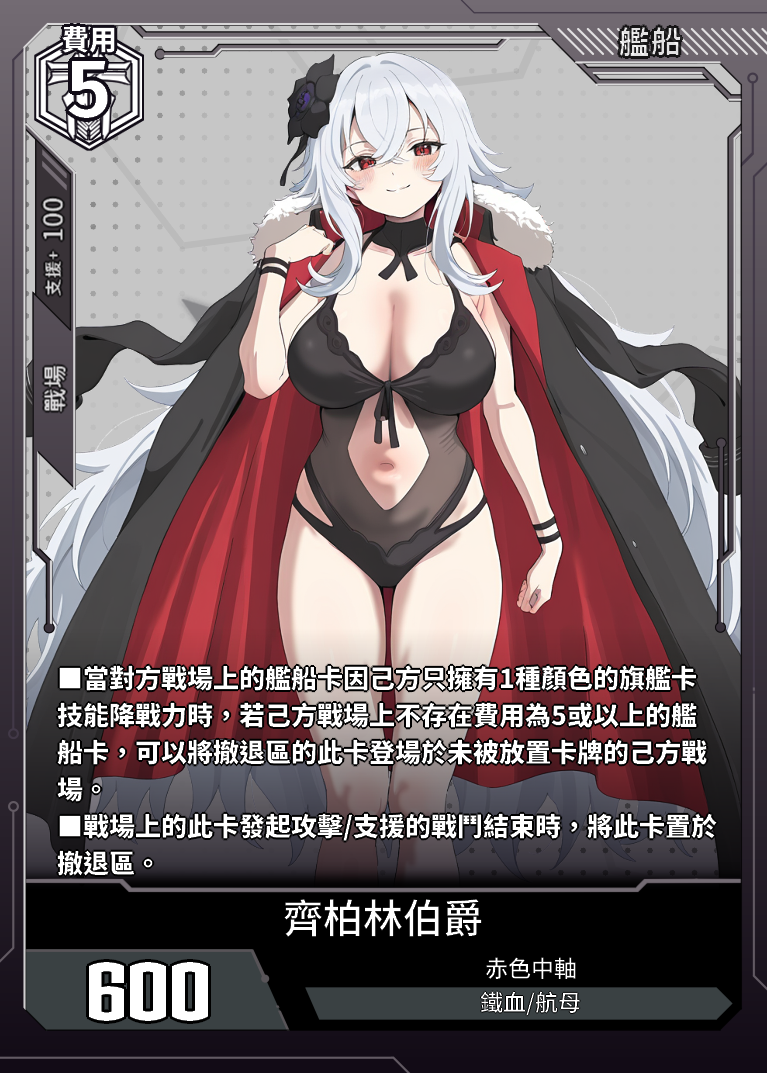
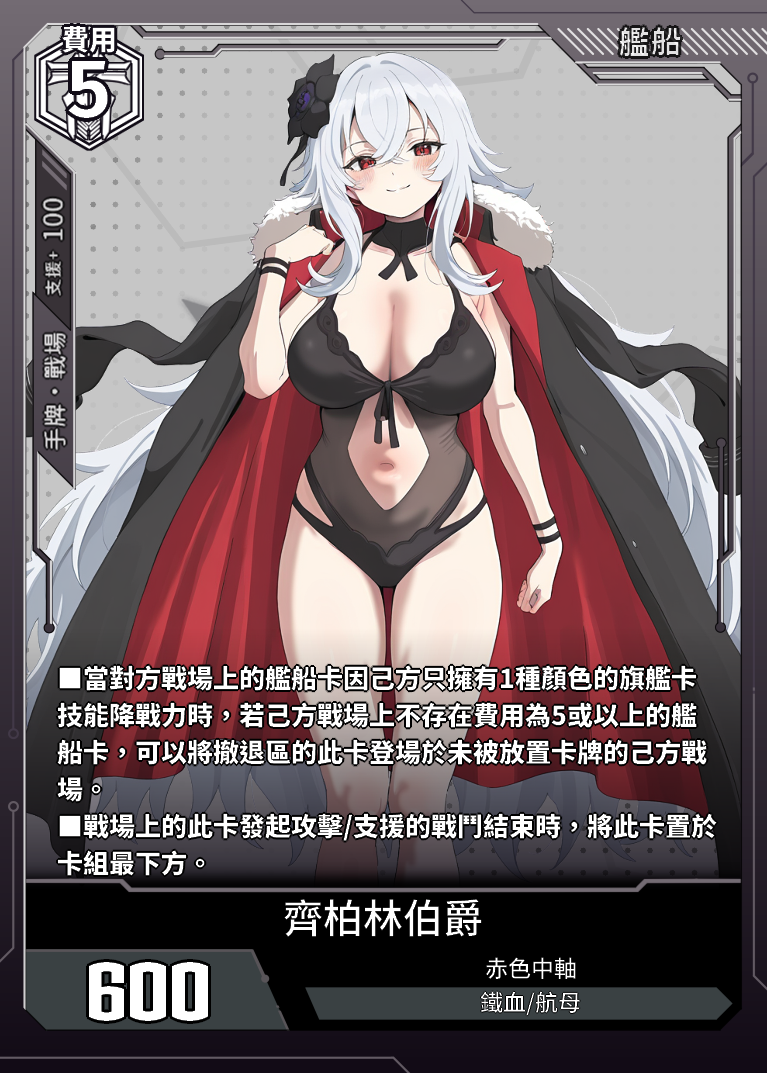
修改齊柏林

Changed region(s): [[0.06, 0.7689, 0.2699, 0.8304], [0.03, 0.3075, 0.09, 0.4306]]

diff --git a/data.js b/data.js
@@ -25093,10 +25093,10 @@ const cards = [
             "艦船類型": "航母",
             "罕　貴": "-",
             "勢　力": "赤色中軸",
-            "支援範圍": "戰場",
+            "支援範圍": "手牌·戰場",
             "支援值": "100"
         },
-        "card_effect": "■當對方戰場上的艦船卡因己方只擁有1種顏色的旗艦卡技能降戰力時，若己方戰場上不存在費用為5或以上的艦船卡，可以將撤退區的此卡登場於未被放置卡牌的己方戰場。■戰場上的此卡發起攻擊/支援的戰鬥結束時，將此卡置於撤退區。",
+        "card_effect": "■當對方戰場上的艦船卡因己方只擁有1種顏色的旗艦卡技能降戰力時，若己方戰場上不存在費用為5或以上的艦船卡，可以將撤退區的此卡登場於未被放置卡牌的己方戰場。■戰場上的此卡發起攻擊/支援的戰鬥結束時，將此卡置於卡組最下方。",
         "acquisition_method": "CE02-早期測試"
     },
 	{
